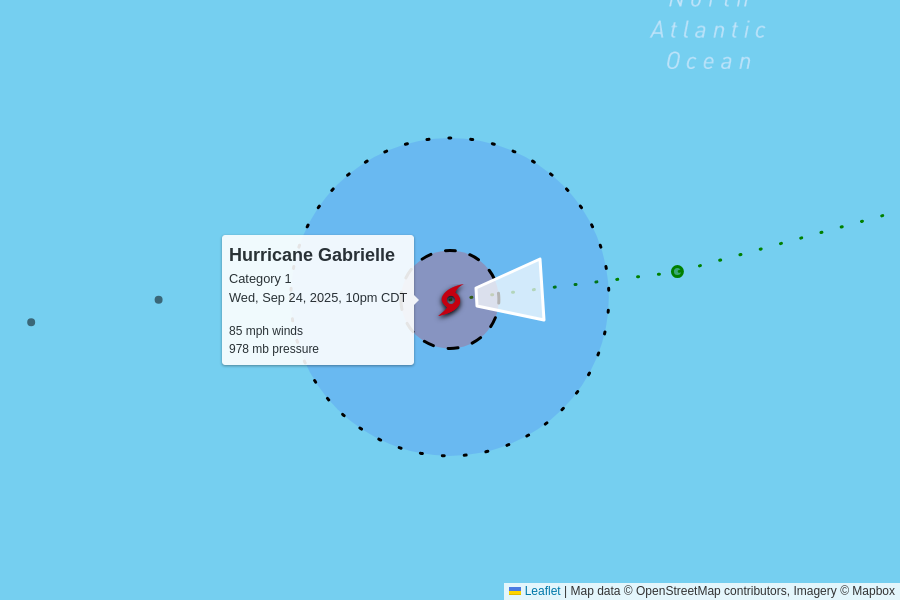
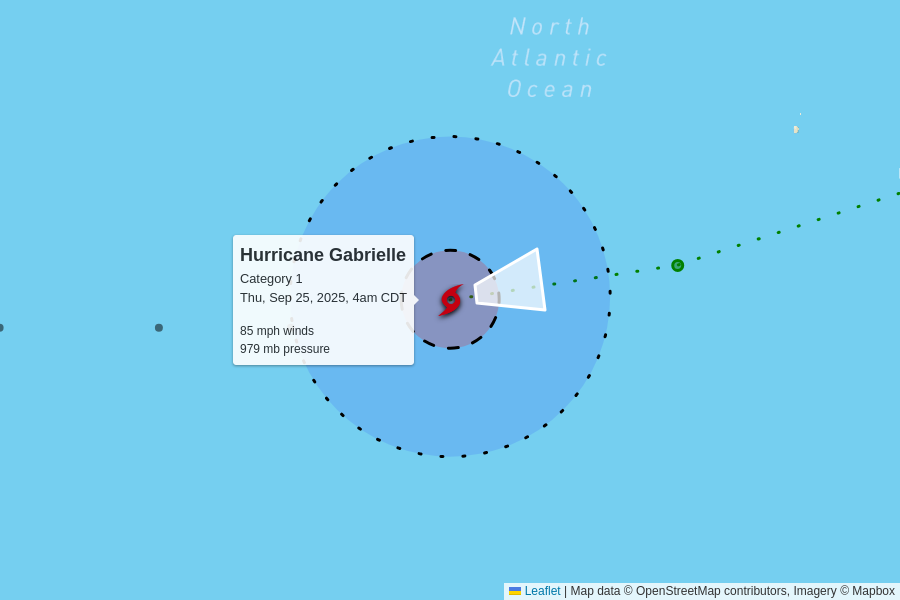
automatic update

diff --git a/docs/index.html b/docs/index.html
@@ -101,10 +101,10 @@
 
     <table>
       <tr>
-        <td colspan="6" class="storm category-0" >
+        <td colspan="6" class="storm category-1" >
           <h2>
-            Tropical Storm Humberto
-            <p class="updated">last updated <span data-time>2025-09-25T03:00:00.000Z</span></p>
+            Hurricane Gabrielle - Category 1
+            <p class="updated">last updated <span data-time>2025-09-25T09:00:00.000Z</span></p>
           </h2>
         </td>
       </tr>
@@ -119,21 +119,21 @@
       </tr>
       <tr>
         <td class="spacer"></td>
-        <td>45 mph<br>+5 mph since last update</td>
-        <td>1007 mb<br>-1 mb since last update</td>
+        <td>85 mph<br>0 mph since last update</td>
+        <td>979 mb<br>+1 mb since last update</td>
         <td>
-          12 mph to the west-northwest
+          32 mph to the east
           <br/>
-          <span style="display: inline-block; font-size: 1.5em; transform: rotate(300deg);">↑</span>
+          <span style="display: inline-block; font-size: 1.5em; transform: rotate(80deg);">↑</span>
         </td>
-        <td><a href="https://raw.githubusercontent.com/mgwalker/atlantic-hurricanes/main/data/csv/AL082025.csv">AL082025.csv</a></td>
-        <td><a href="https://www.nhc.noaa.gov/archive/2025/HUMBERTO.shtml?">NHC advisories</a></td>
+        <td><a href="https://raw.githubusercontent.com/mgwalker/atlantic-hurricanes/main/data/csv/AL072025.csv">AL072025.csv</a></td>
+        <td><a href="https://www.nhc.noaa.gov/archive/2025/GABRIELLE.shtml?">NHC advisories</a></td>
       </tr>
-      <tr id="storm_AL082025" >
+      <tr id="storm_AL072025" >
         <td class="spacer">
         <td colspan="5">
           <figure>
-            <img src="AL082025.png">
+            <img src="AL072025.png">
             <figcaption>
               Map data &copy; <a href="https://www.openstreetmap.org/copyright">OpenStreetMap</a> contributors,
               Imagery &copy; <a href="https://www.mapbox.com/">Mapbox</a> |
@@ -145,10 +145,10 @@
       
 
       <tr>
-        <td colspan="6" class="storm category-1" >
+        <td colspan="6" class="storm category-0" >
           <h2>
-            Hurricane Gabrielle - Category 1
-            <p class="updated">last updated <span data-time>2025-09-25T03:00:00.000Z</span></p>
+            Tropical Storm Humberto
+            <p class="updated">last updated <span data-time>2025-09-25T09:00:00.000Z</span></p>
           </h2>
         </td>
       </tr>
@@ -163,21 +163,21 @@
       </tr>
       <tr>
         <td class="spacer"></td>
-        <td>85 mph<br>-15 mph since last update</td>
-        <td>978 mb<br>+8 mb since last update</td>
+        <td>45 mph<br>0 mph since last update</td>
+        <td>1007 mb<br>0 mb since last update</td>
         <td>
-          31 mph to the east
+          10 mph to the northwest
           <br/>
-          <span style="display: inline-block; font-size: 1.5em; transform: rotate(85deg);">↑</span>
+          <span style="display: inline-block; font-size: 1.5em; transform: rotate(305deg);">↑</span>
         </td>
-        <td><a href="https://raw.githubusercontent.com/mgwalker/atlantic-hurricanes/main/data/csv/AL072025.csv">AL072025.csv</a></td>
-        <td><a href="https://www.nhc.noaa.gov/archive/2025/GABRIELLE.shtml?">NHC advisories</a></td>
+        <td><a href="https://raw.githubusercontent.com/mgwalker/atlantic-hurricanes/main/data/csv/AL082025.csv">AL082025.csv</a></td>
+        <td><a href="https://www.nhc.noaa.gov/archive/2025/HUMBERTO.shtml?">NHC advisories</a></td>
       </tr>
-      <tr id="storm_AL072025" >
+      <tr id="storm_AL082025" >
         <td class="spacer">
         <td colspan="5">
           <figure>
-            <img src="AL072025.png">
+            <img src="AL082025.png">
             <figcaption>
               Map data &copy; <a href="https://www.openstreetmap.org/copyright">OpenStreetMap</a> contributors,
               Imagery &copy; <a href="https://www.mapbox.com/">Mapbox</a> |
